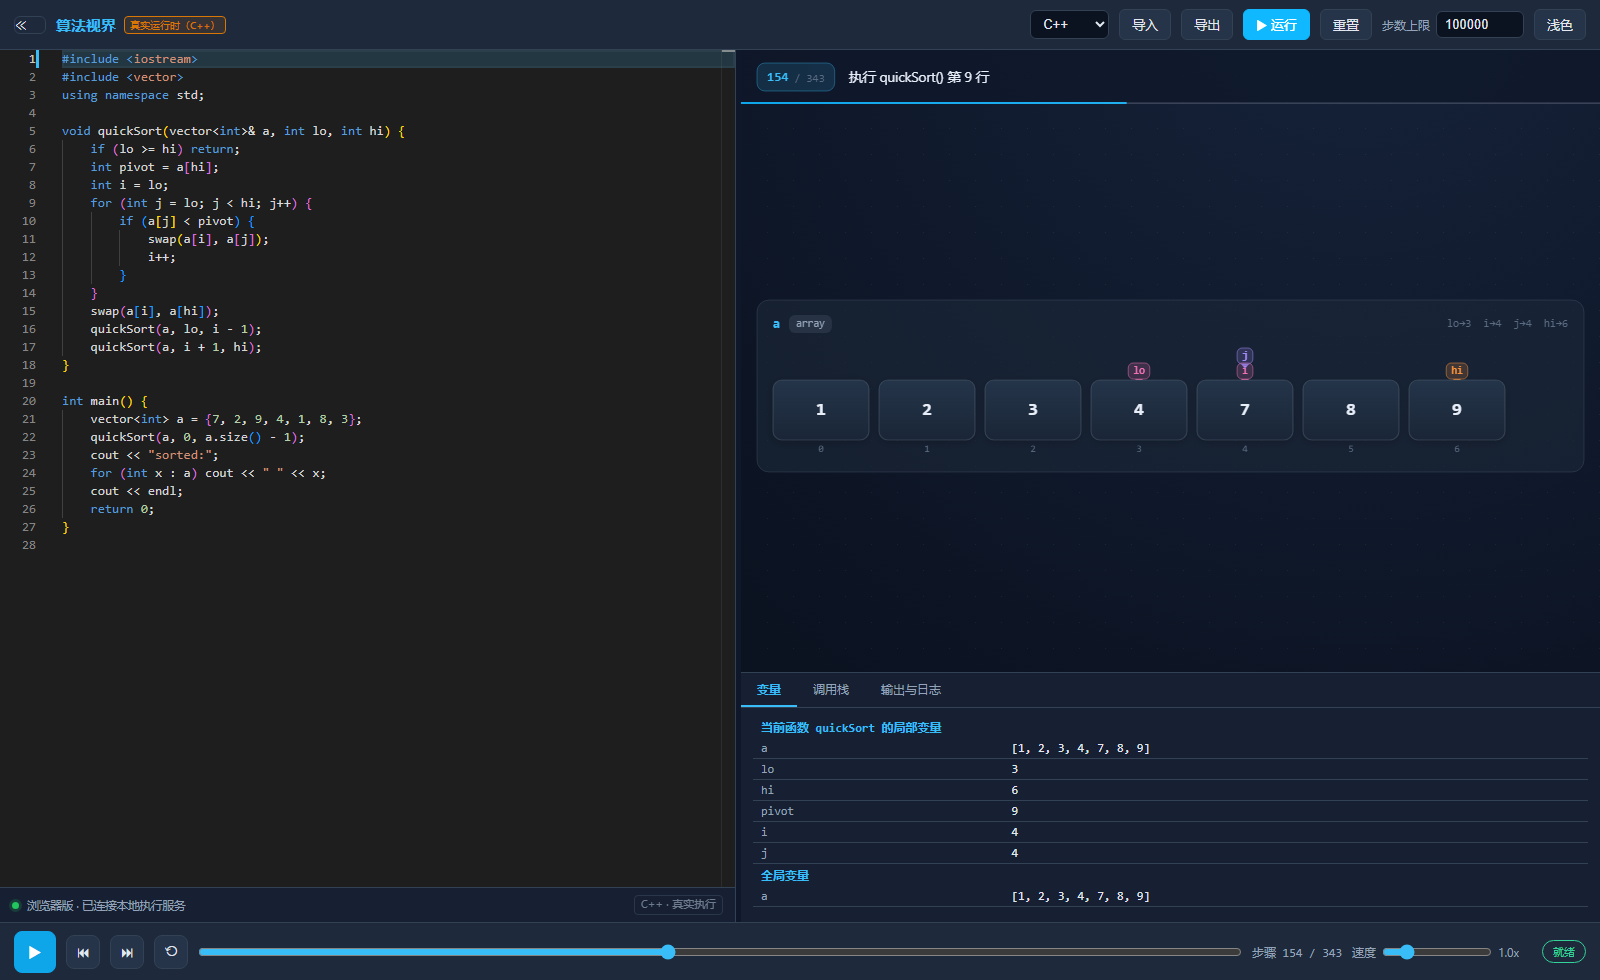
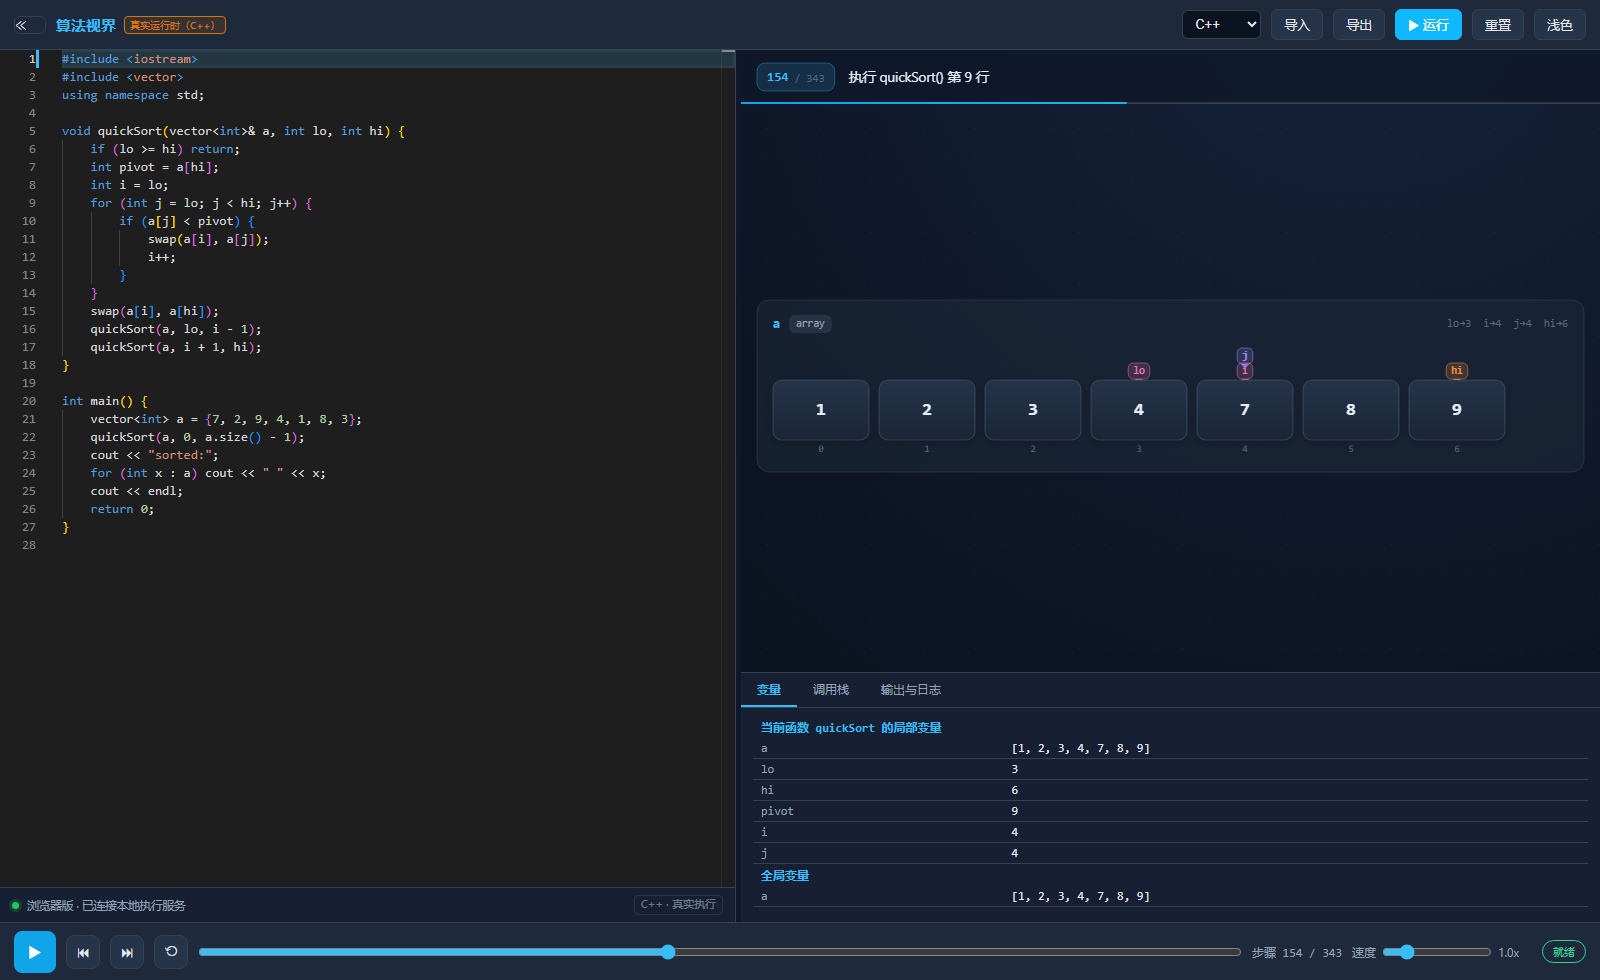
fix: 1.0.0 交付前修复（输出污染、便携/安装互斥、站点逻辑剥离、截图刷新）
- runtime/gdb-tracer.mjs
  * gdb 加 -q，关掉启动横幅（横幅续行无固定前缀，靠字符串过滤不干净）
  * console 流按"原始行"过滤：停止位置描述（1, 0x… in main () at x.c:2）
    与紧随其后的源码回显（2\tint main() {…}）不再混进程序输出
  * 去掉 ~ / @" 的 running 前置判断，程序最后一行的输出不再被吞
- electron/main.ts
  * 用户数据目录固定为 %APPDATA%\AlgoView（原为中文名，且安装版与绿色版共用
    同一目录导致 requestSingleInstanceLock 互斥，只能开一个）
  * 绿色版（exe 同级 portable.marker）改用同级 userdata\，两版可同时运行
- server：个人主页托管拆到可选模块 server/site.cjs，产物里不带 → 包内只服务 /algo/；
  /health 支持 HEAD（过渡页探活用）
- build/installer.nsi：卸载时清理 %APPDATA%\AlgoView
- scripts/package.mjs：绿色版 ZIP 带顶层目录 AlgoView-1.0.0/，并写入 portable.marker
- scripts/sync-repo.mjs：工作副本 → 发布仓库的单向同步，杜绝多份副本漂移
- docs：三张截图按当前界面重截（旧图还带着已删除的"步数上限"控件）
- README：去掉“# 换成你的仓库地址”占位注释

Changed region(s): [[0.625, 0.0, 0.9688, 0.0612]]

diff --git a/electron/main.ts b/electron/main.ts
@@ -5,9 +5,41 @@
 import { app, BrowserWindow, Menu, protocol, dialog, ipcMain, shell } from 'electron';
 import * as path from 'path';
 import * as fs from 'fs';
+import * as os from 'os';
 import { pathToFileURL } from 'url';
 
 const APP_SCHEME = 'app';
+
+/* ---------- 0. 用户数据目录：安装版与绿色版必须分开 ---------- */
+/**
+ * 默认用户数据目录是 %APPDATA%\<productName>，这里会变成中文的「算法视界」，两个问题：
+ *   1. 安装版与绿色版共用同一个目录 → requestSingleInstanceLock 互相顶掉，
+ *      后打开的那个会被顶回前一个窗口；
+ *   2. 中文目录名没法写进 NSIS 卸载脚本（makensis 按系统代码页解析脚本）。
+ * 因此统一成 ASCII 的 AlgoView；绿色版（exe 同级有 portable.marker）再挪到
+ * exe 同级 userdata/，真正做到解压即用、不写 AppData，两版可同时开。
+ */
+function applyUserDataPaths(): void {
+  if (!app.isPackaged) return;
+  const exeDir = path.dirname(process.execPath);
+  if (fs.existsSync(path.join(exeDir, 'portable.marker'))) {
+    let dir = path.join(exeDir, 'userdata');
+    try {
+      fs.mkdirSync(dir, { recursive: true });
+      fs.accessSync(dir, fs.constants.W_OK);
+    } catch {
+      // 只读介质（光盘 / 只读U盘）→ 退回临时目录，至少不崩
+      dir = path.join(os.tmpdir(), 'AlgoView-portable');
+      fs.mkdirSync(dir, { recursive: true });
+    }
+    app.setPath('userData', dir);
+    app.setPath('sessionData', dir);
+    return;
+  }
+  app.setPath('userData', path.join(app.getPath('appData'), 'AlgoView'));
+}
+
+applyUserDataPaths();
 
 /* ---------- 1. 注册自定义协议（特权） ---------- */
 function registerPrivilegedSchemes(): void {
